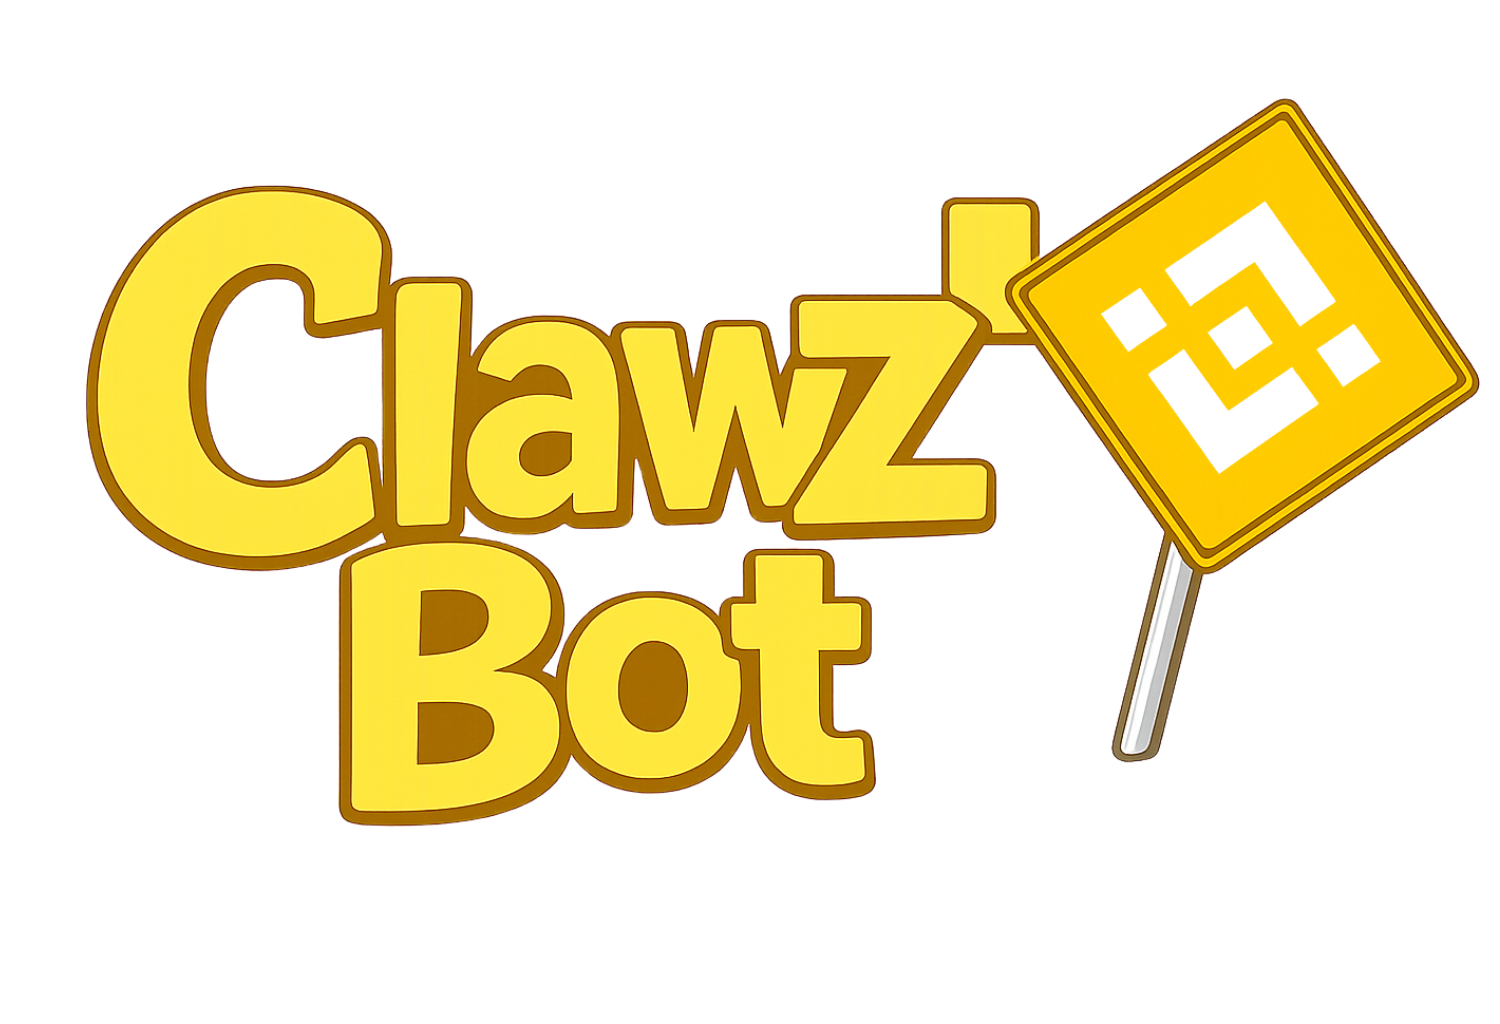
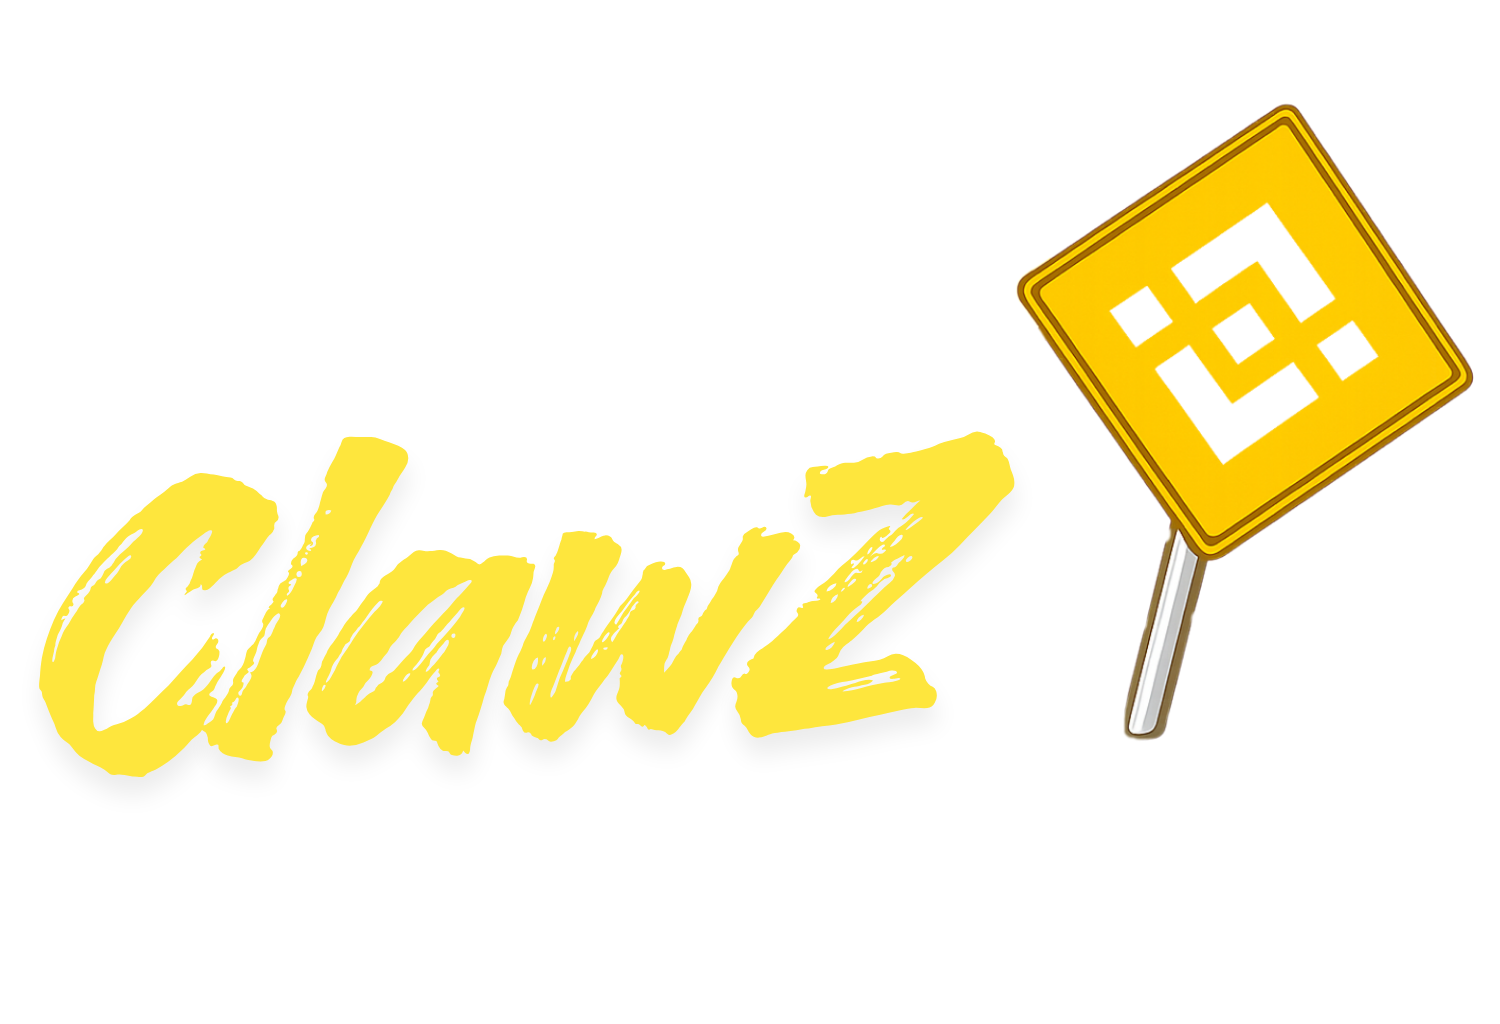
update

Changed region(s): [[0.0, 0.0938, 1.0, 0.8125], [0.828, 0.1875, 0.8587, 0.2188], [0.7973, 0.2188, 0.828, 0.25]]

diff --git a/index.html b/index.html
@@ -1,7 +1,7 @@
 <!DOCTYPE html>
 <html lang="en">
   <head>
-    <title>CZBOT</title>
+    <title>CLAWZ</title>
     <meta charset="UTF-8" />
     <meta name="format-detection" content="telephone=no" />
     <style>
@@ -69,7 +69,7 @@
             <div class="header__actions" data-da=".menu__body, 767.98">
               <div class="header__social">
                 <a
-                  href="https://x.com/GodCandle_bsc"
+                  href="https://x.com/ClawZ_bnb"
                   target="_blank"
                   class="header__social-item"
                 >
@@ -87,7 +87,7 @@
                   </svg>
                 </a>
                 <a
-                  href="https://t.me/GodCandle_bsc"
+                  href="https://t.me/ClawZ_bnb"
                   target="_blank"
                   class="header__social-item"
                 >
@@ -107,7 +107,7 @@
                   </svg>
                 </a>
               </div>
-              <a href="https://pancakeswap.finance/swap?outputCurrency=0xe5226b98c61585206b42ac724476c644ab867402" target="_blank" class="header__button"
+              <a href="https://pancakeswap.finance/swap?outputCurrency=0xcomingsoon" target="_blank" class="header__button"
                 ><span>BUY now<i>!</i><i>!</i><i>!</i></span></a
               >
             </div>
@@ -124,12 +124,12 @@
           <div class="hero__container">
             <div class="hero__content">
               <h1 class="hero__title">
-                <img src="img/HeroTitle.png" alt="CZBOT" />
+                <img src="img/HeroTitle.png" alt="CLAWZ" />
               </h1>
               <div class="hero__actions">
                 <div class="hero__social">
                   <a
-                    href="https://x.com/GodCandle_bsc"
+                    href="https://x.com/ClawZ_bnb"
                     target="_blank"
                     class="hero__social-item"
                   >
@@ -149,7 +149,7 @@
                     </span>
                   </a>
                   <a
-                    href="https://t.me/GodCandle_bsc"
+                    href="https://t.me/ClawZ_bnb"
                     target="_blank"
                     class="hero__social-item"
                   >
@@ -170,7 +170,7 @@
                       </svg>
                     </span>
                   </a>
-                  <a href="https://dexscreener.com/bsc/0xe5226b98c61585206b42ac724476c644ab867402" target="_blank" class="hero__social-item">
+                  <a href="https://dexscreener.com/bsc/0xcomingsoon" target="_blank" class="hero__social-item">
                     <span>
                       <svg
                         xmlns="http://www.w3.org/2000/svg"
@@ -195,7 +195,7 @@
                     </span>
                   </a>
                 </div>
-                <a href="https://pancakeswap.finance/swap?outputCurrency=0xe5226b98c61585206b42ac724476c644ab867402" target="_blank" class="hero__button">
+                <a href="https://pancakeswap.finance/swap?outputCurrency=0xcomingsoon" target="_blank" class="hero__button">
                   <span>BUY now<i>!</i><i>!</i><i>!</i></span>
                 </a>
                 <span class="hero__label"><span>Higher!</span></span>
@@ -208,67 +208,67 @@
         </section>
         <div class="page__line line">
           <div class="line__row">
-            <span>CZBOT</span>
+            <span>CLAWZ</span>
             <img src="img/line.png" alt="Image" />
-            <span>CZBOT</span>
+            <span>CLAWZ</span>
             <img src="img/line.png" alt="Image" />
-            <span>CZBOT</span>
+            <span>CLAWZ</span>
             <img src="img/line.png" alt="Image" />
-            <span>CZBOT</span>
+            <span>CLAWZ</span>
             <img src="img/line.png" alt="Image" />
-            <span>CZBOT</span>
+            <span>CLAWZ</span>
             <img src="img/line.png" alt="Image" />
-            <span>CZBOT</span>
+            <span>CLAWZ</span>
             <img src="img/line.png" alt="Image" />
-            <span>CZBOT</span>
+            <span>CLAWZ</span>
             <img src="img/line.png" alt="Image" />
-            <span>CZBOT</span>
+            <span>CLAWZ</span>
             <img src="img/line.png" alt="Image" />
-            <span>CZBOT</span>
+            <span>CLAWZ</span>
             <img src="img/line.png" alt="Image" />
-            <span>CZBOT</span>
+            <span>CLAWZ</span>
             <img src="img/line.png" alt="Image" />
-            <span>CZBOT</span>
+            <span>CLAWZ</span>
             <img src="img/line.png" alt="Image" />
-            <span>CZBOT</span>
+            <span>CLAWZ</span>
             <img src="img/line.png" alt="Image" />
-            <span>CZBOT</span>
+            <span>CLAWZ</span>
             <img src="img/line.png" alt="Image" />
-            <span>CZBOT</span>
+            <span>CLAWZ</span>
             <img src="img/line.png" alt="Image" />
-            <span>CZBOT</span>
+            <span>CLAWZ</span>
             <img src="img/line.png" alt="Image" />
           </div>
           <div class="line__row">
-            <span>CZBOT</span>
+            <span>CLAWZ</span>
             <img src="img/line.png" alt="Image" />
-            <span>CZBOT</span>
+            <span>CLAWZ</span>
             <img src="img/line.png" alt="Image" />
-            <span>CZBOT</span>
+            <span>CLAWZ</span>
             <img src="img/line.png" alt="Image" />
-            <span>CZBOT</span>
+            <span>CLAWZ</span>
             <img src="img/line.png" alt="Image" />
-            <span>CZBOT</span>
+            <span>CLAWZ</span>
             <img src="img/line.png" alt="Image" />
-            <span>CZBOT</span>
+            <span>CLAWZ</span>
             <img src="img/line.png" alt="Image" />
-            <span>CZBOT</span>
+            <span>CLAWZ</span>
             <img src="img/line.png" alt="Image" />
-            <span>CZBOT</span>
+            <span>CLAWZ</span>
             <img src="img/line.png" alt="Image" />
-            <span>CZBOT</span>
+            <span>CLAWZ</span>
             <img src="img/line.png" alt="Image" />
-            <span>CZBOT</span>
+            <span>CLAWZ</span>
             <img src="img/line.png" alt="Image" />
-            <span>CZBOT</span>
+            <span>CLAWZ</span>
             <img src="img/line.png" alt="Image" />
-            <span>CZBOT</span>
+            <span>CLAWZ</span>
             <img src="img/line.png" alt="Image" />
-            <span>CZBOT</span>
+            <span>CLAWZ</span>
             <img src="img/line.png" alt="Image" />
-            <span>CZBOT</span>
+            <span>CLAWZ</span>
             <img src="img/line.png" alt="Image" />
-            <span>CZBOT</span>
+            <span>CLAWZ</span>
             <img src="img/line.png" alt="Image" />
           </div>
         </div>
@@ -293,7 +293,7 @@
                 <img src="img/AboutTitle.png" alt="ABOUT" />
               </h2>
               <blockquote class="twitter-tweet"><p lang="en" dir="ltr">You need an AI to keep up with AI.<br><br>claw: what can I do you for today?<br><br>me: install every other bot, test it and keep me up-to-date on all new AI release going forward. Oh, and go wild respond to all my emails however you like.</p>&mdash; CZ 🔶 BNB (@cz_binance) <a href="https://twitter.com/cz_binance/status/2027085941907841147?ref_src=twsrc%5Etfw">February 26, 2026</a></blockquote> <script async src="https://platform.twitter.com/widgets.js" charset="utf-8"></script>
-              <a href="https://pancakeswap.finance/swap?outputCurrency=0xe5226b98c61585206b42ac724476c644ab867402" class="about__button">
+              <a href="https://pancakeswap.finance/swap?outputCurrency=0xcomingsoon" class="about__button">
                 <span>BUY now<i>!</i><i>!</i><i>!</i></span>
               </a>
             </div>
@@ -392,67 +392,67 @@
         </section>
         <div class="page__line line reverse">
           <div class="line__row">
-            <span>CZBOT</span>
+            <span>CLAWZ</span>
             <img src="img/line.png" alt="Image" />
-            <span>CZBOT</span>
+            <span>CLAWZ</span>
             <img src="img/line.png" alt="Image" />
-            <span>CZBOT</span>
+            <span>CLAWZ</span>
             <img src="img/line.png" alt="Image" />
-            <span>CZBOT</span>
+            <span>CLAWZ</span>
             <img src="img/line.png" alt="Image" />
-            <span>CZBOT</span>
+            <span>CLAWZ</span>
             <img src="img/line.png" alt="Image" />
-            <span>CZBOT</span>
+            <span>CLAWZ</span>
             <img src="img/line.png" alt="Image" />
-            <span>CZBOT</span>
+            <span>CLAWZ</span>
             <img src="img/line.png" alt="Image" />
-            <span>CZBOT</span>
+            <span>CLAWZ</span>
             <img src="img/line.png" alt="Image" />
-            <span>CZBOT</span>
+            <span>CLAWZ</span>
             <img src="img/line.png" alt="Image" />
-            <span>CZBOT</span>
+            <span>CLAWZ</span>
             <img src="img/line.png" alt="Image" />
-            <span>CZBOT</span>
+            <span>CLAWZ</span>
             <img src="img/line.png" alt="Image" />
-            <span>CZBOT</span>
+            <span>CLAWZ</span>
             <img src="img/line.png" alt="Image" />
-            <span>CZBOT</span>
+            <span>CLAWZ</span>
             <img src="img/line.png" alt="Image" />
-            <span>CZBOT</span>
+            <span>CLAWZ</span>
             <img src="img/line.png" alt="Image" />
-            <span>CZBOT</span>
+            <span>CLAWZ</span>
             <img src="img/line.png" alt="Image" />
           </div>
           <div class="line__row">
-            <span>CZBOT</span>
+            <span>CLAWZ</span>
             <img src="img/line.png" alt="Image" />
-            <span>CZBOT</span>
+            <span>CLAWZ</span>
             <img src="img/line.png" alt="Image" />
-            <span>CZBOT</span>
+            <span>CLAWZ</span>
             <img src="img/line.png" alt="Image" />
-            <span>CZBOT</span>
+            <span>CLAWZ</span>
             <img src="img/line.png" alt="Image" />
-            <span>CZBOT</span>
+            <span>CLAWZ</span>
             <img src="img/line.png" alt="Image" />
-            <span>CZBOT</span>
+            <span>CLAWZ</span>
             <img src="img/line.png" alt="Image" />
-            <span>CZBOT</span>
+            <span>CLAWZ</span>
             <img src="img/line.png" alt="Image" />
-            <span>CZBOT</span>
+            <span>CLAWZ</span>
             <img src="img/line.png" alt="Image" />
-            <span>CZBOT</span>
+            <span>CLAWZ</span>
             <img src="img/line.png" alt="Image" />
-            <span>CZBOT</span>
+            <span>CLAWZ</span>
             <img src="img/line.png" alt="Image" />
-            <span>CZBOT</span>
+            <span>CLAWZ</span>
             <img src="img/line.png" alt="Image" />
-            <span>CZBOT</span>
+            <span>CLAWZ</span>
             <img src="img/line.png" alt="Image" />
-            <span>CZBOT</span>
+            <span>CLAWZ</span>
             <img src="img/line.png" alt="Image" />
-            <span>CZBOT</span>
+            <span>CLAWZ</span>
             <img src="img/line.png" alt="Image" />
-            <span>CZBOT</span>
+            <span>CLAWZ</span>
             <img src="img/line.png" alt="Image" />
           </div>
         </div>
@@ -519,12 +519,12 @@
               <img src="img/JoinUsTitle.png" alt="JOIN US" />
             </h2>
             <div class="join__actions">
-              <a href="https://pancakeswap.finance/swap?outputCurrency=0xe5226b98c61585206b42ac724476c644ab867402" target="_blank" class="join__button">
+              <a href="https://pancakeswap.finance/swap?outputCurrency=0xcomingsoon" target="_blank" class="join__button">
                 <span>BUY now<i>!</i><i>!</i><i>!</i></span>
               </a>
               <div class="join__social">
                 <a
-                  href="https://x.com/GodCandle_bsc"
+                  href="https://x.com/ClawZ_bnb"
                   target="_blank"
                   class="join__social-item"
                 >
@@ -556,7 +556,7 @@
                   </span>
                 </a>
                 <a
-                  href="https://t.me/GodCandle_bsc"
+                  href="https://t.me/ClawZ_bnb"
                   target="_blank"
                   class="join__social-item"
                 >
@@ -589,7 +589,7 @@
                     </svg>
                   </span>
                 </a>
-                <a href="https://www.dextools.io/app/en/bnb/pair-explorer/0xe5226b98c61585206b42ac724476c644ab867402" target="_blank" class="join__social-item">
+                <a href="https://www.dextools.io/app/en/bnb/pair-explorer/0xcomingsoon" target="_blank" class="join__social-item">
                   <span>
                     <svg
                       xmlns="http://www.w3.org/2000/svg"
@@ -619,7 +619,7 @@
                     </svg>
                   </span>
                 </a>
-                <a href="https://dexscreener.com/bsc/0xe5226b98c61585206b42ac724476c644ab867402" target="_blank" class="join__social-item">
+                <a href="https://dexscreener.com/bsc/0xcomingsoon" target="_blank" class="join__social-item">
                   <span>
                     <svg
                       xmlns="http://www.w3.org/2000/svg"
@@ -652,7 +652,7 @@
         <div class="footer__container">
           <span>2026 © ALL RIGHTS RESERVED</span>
           <a href="https://t.me/osnovoco" target="_blank">
-            <span>Designed by CZBOT Team</span>
+            <span>Designed by CLAWZ Team</span>
           </a>
         </div>
       </footer>
